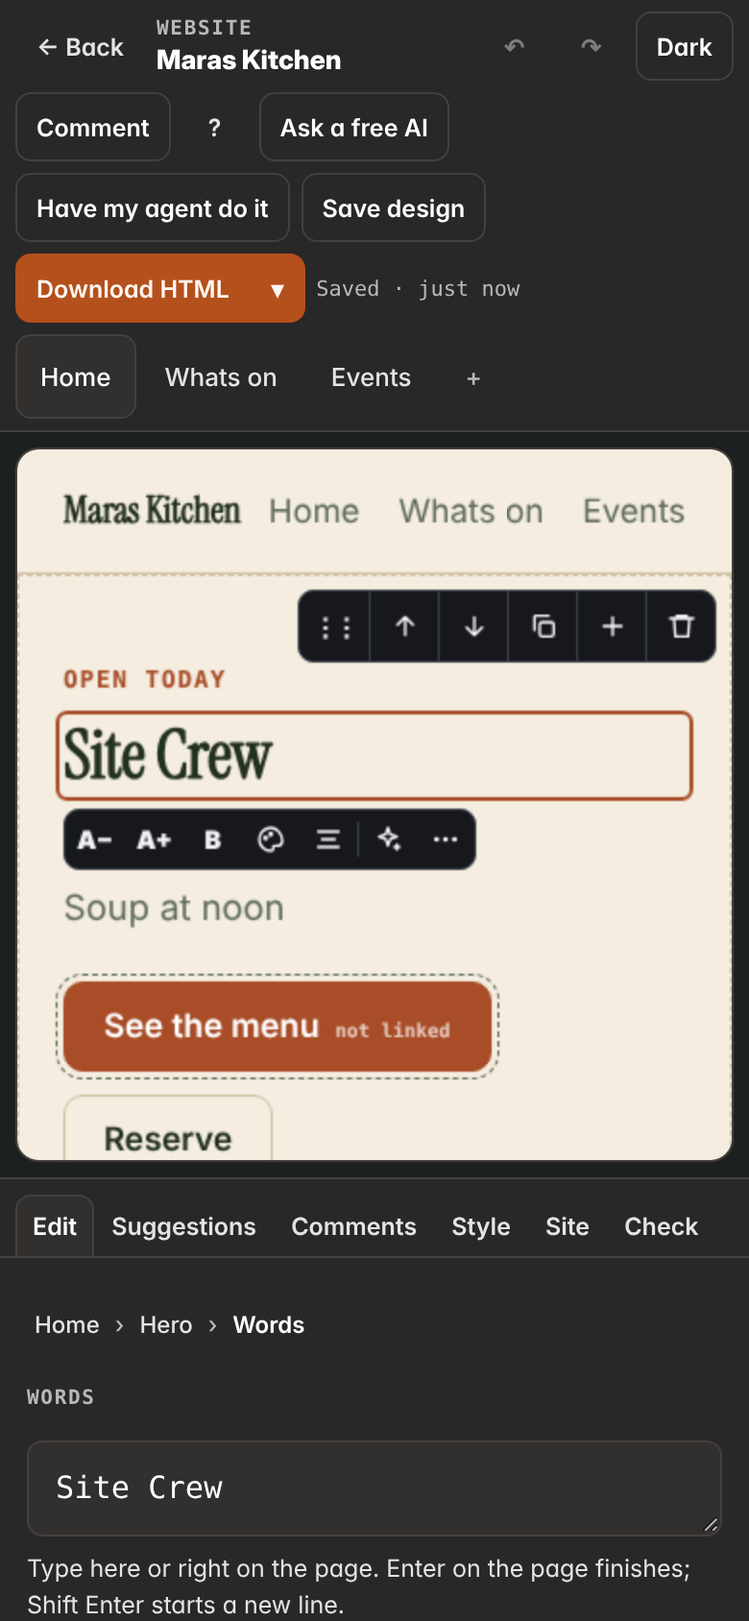
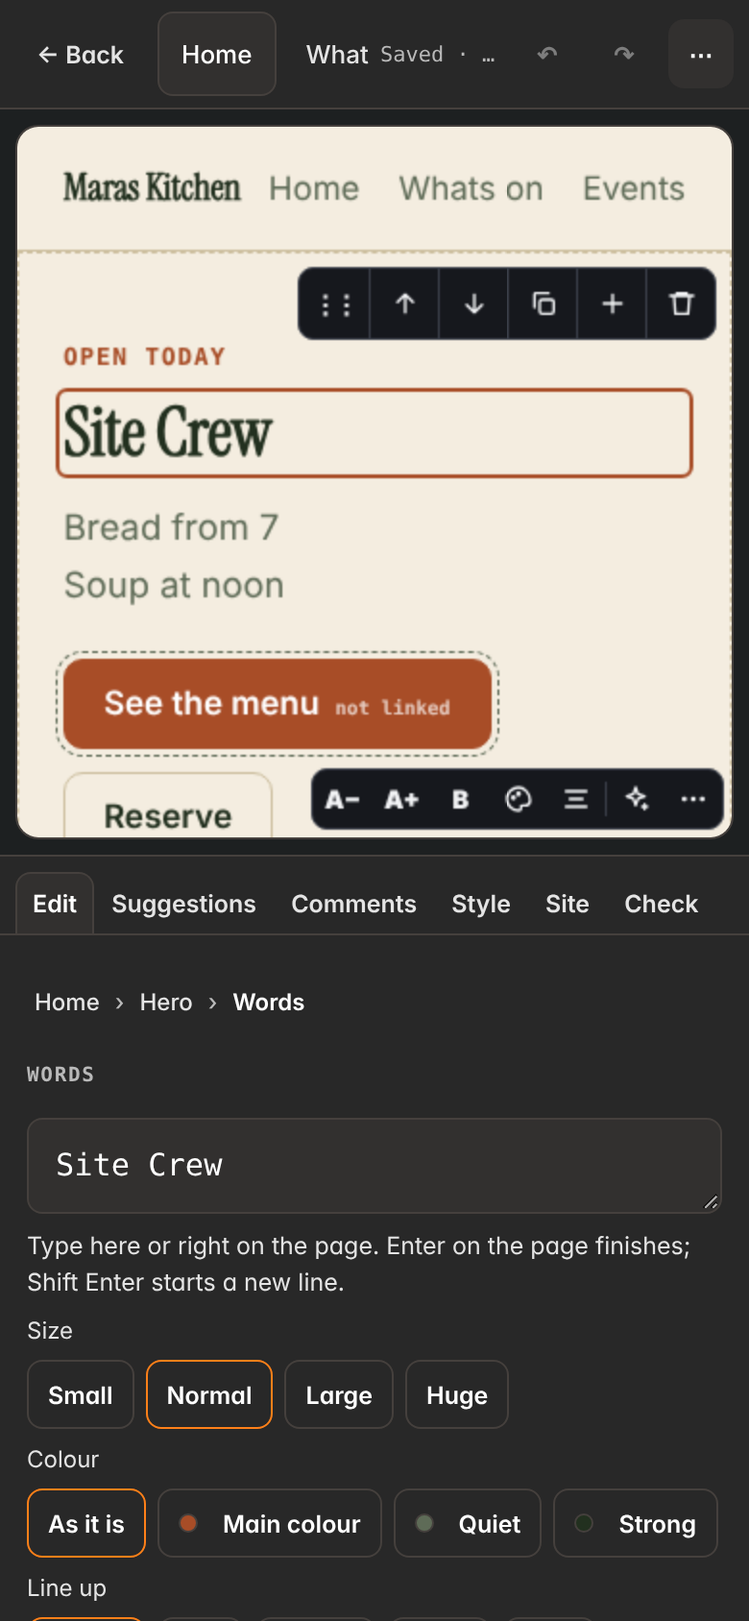
Website editor: toolbar never covers words, one-row phone bar with More, drag an entry with a drop line
Claude-Session: https://claude.ai/code/session_01Q3y5f5AEdzfgkZgsBdK9Ys

diff --git a/app/ui/sitedesigner-frame.js b/app/ui/sitedesigner-frame.js
@@ -16,7 +16,7 @@
   var q = function (s) { return document.querySelector(s); };
   var esc = function (s) { return window.CSS && CSS.escape ? CSS.escape(s) : String(s).replace(/["\\]/g, '\\$&'); };
   var L = { smaller: 'Smaller', bigger: 'Bigger', bold: 'Bold', color: 'Colour', align: 'Align', link: 'Where it goes', up: 'Move up', down: 'Move down', dup: 'Duplicate', add: 'Add another', del: 'Remove', flint: 'Ask Flint about this', more: 'More', replace: 'Replace the picture', fit: 'Fill or fit', swap: 'Swap the icon', words: 'Edit the words',
-    grip: 'Drag to move this section', sadd: 'Add a section below' };
+    grip: 'Drag to move this section', sadd: 'Add a section below', igrip: 'Drag to move it' };
   var I = function (d) { return '<svg viewBox="0 0 24 24" width="16" height="16" fill="none" stroke="currentColor" stroke-width="2" stroke-linecap="round" stroke-linejoin="round" aria-hidden="true">' + d + '</svg>'; };
   var IC = { up: I('<path d="M12 19V5M6 11l6-6 6 6"/>'), down: I('<path d="M12 5v14M6 13l6 6 6-6"/>'), dup: I('<rect x="9" y="9" width="11" height="11" rx="2"/><path d="M5 15V5a1 1 0 0 1 1-1h10"/>'), add: I('<path d="M12 5v14M5 12h14"/>'),
     del: I('<path d="M3 6h18M8 6V4h8v2M6 6l1 14h10l1-14"/>'), link: I('<path d="M10 14a4 4 0 0 0 5.7 0l3-3a4 4 0 0 0-5.7-5.7l-1 1"/><path d="M14 10a4 4 0 0 0-5.7 0l-3 3a4 4 0 0 0 5.7 5.7l1-1"/>'),
@@ -82,7 +82,7 @@
     if (s.kind === 'image') h += B('replace') + (site ? '' : B('fit'));
     if (s.kind === 'icon') h += B('swap');
     if (s.kind === 'field') h += B('words');
-    if (s.kind === 'item' || inList(s)) h += '<i></i>' + B('up') + B('down') + B('dup') + (s.kind === 'item' ? B('add') : '') + B('del');
+    if (s.kind === 'item' || inList(s)) h += '<i></i>' + '<button type="button" data-a="igrip" title="' + L.igrip + '" aria-label="' + L.igrip + '">\u22EE\u22EE</button>' + B('up') + B('down') + B('dup') + (s.kind === 'item' ? B('add') : '') + B('del');
     if (!site) h += '<i></i>' + B('flint');
     return h + B('more');
   }
@@ -91,10 +91,21 @@
     if (tb.dataset.for !== SEL.kind + SEL.key) { tb.innerHTML = tbHtml(SEL); tb.dataset.for = SEL.kind + SEL.key; }
     if (tb.parentNode !== document.body) document.body.appendChild(tb);
     var r = selEl.getBoundingClientRect(), w = tb.offsetWidth, h = tb.offsetHeight, dw = document.documentElement.clientWidth;
-    var top = r.top + scrollY - h - 8; if (r.top - h - 8 < 0 && r.bottom + h + 8 < innerHeight) top = r.bottom + scrollY + 8; if (top < 4) top = 4;
-    var left = Math.max(4, Math.min(r.left + scrollX, dw - w - 4));
-    if (bar.parentNode) { var br = bar.getBoundingClientRect(), ty = top - scrollY, lx = left - scrollX; if (ty < br.bottom + 2 && ty + h > br.top - 2 && lx < br.right + 2 && lx + w > br.left - 2) top = r.bottom + scrollY + 8; }   // never on top of the section's own bar
-    tb.style.top = Math.round(top) + 'px'; tb.style.left = Math.round(left) + 'px';
+    var left = Math.max(4, Math.min(r.left, dw - w - 4));
+    // feat/site-editor2 round 2: it never sits on words, a picture or the section's bar. Places tried in order: above,
+    // below, above at the right edge, below at the right edge; if all are taken it docks at the top of the screen.
+    var others = [].filter.call(document.querySelectorAll('[data-e],[data-btn],[data-img],[data-icon],[data-ph],.wdz-bar'), function (e) { return e !== selEl && !e.contains(selEl) && !selEl.contains(e); }).map(function (e) { return e.getBoundingClientRect(); }).filter(function (b) { return b.width > 0 && b.height > 0 && b.bottom > 0 && b.top < innerHeight; });
+    var free = function (x, y) { if (y < 2 || y + h > innerHeight - 2) return false; for (var i = 0; i < others.length; i++) { var b = others[i]; if (x < b.right + 2 && x + w > b.left - 2 && y < b.bottom + 2 && y + h > b.top - 2) return false; } return true; };
+    others.push(r);   // nor on the thing itself
+    var rx = Math.max(4, Math.min(r.right - w, dw - w - 4)), tries = [[left, r.top - h - 8], [left, r.bottom + 8], [rx, r.top - h - 8], [rx, r.bottom + 8]], at = null;
+    for (var t = 0; t < tries.length && !at; t++) if (free(tries[t][0], tries[t][1])) at = tries[t];
+    tb.classList.toggle('is-docked', !at);
+    if (!at) {   // docked: the free spot on screen nearest to the thing, so it is clear of every word
+      var xs = [left, rx, Math.max(4, (dw - w) / 2), 4, dw - w - 4], best = null, cy = (r.top + r.bottom) / 2;
+      for (var y = 4; y + h <= innerHeight - 2; y += 10) for (var k = 0; k < xs.length; k++) if (free(xs[k], y)) { var dist = Math.abs(y + h / 2 - cy) + Math.abs(xs[k] - left) / 4; if (!best || dist < best[2]) best = [xs[k], y, dist]; }
+      at = best || [Math.max(4, (dw - w) / 2), Math.max(4, innerHeight - h - 6)];
+    }
+    tb.style.top = Math.round(at[1] + scrollY) + 'px'; tb.style.left = Math.round(at[0] + scrollX) + 'px';
   }
   function select(s) {
     if (selEl) selEl.classList.remove('wdz-sel');
@@ -118,9 +129,39 @@
   if (window.ResizeObserver) new ResizeObserver(placeTb).observe(document.documentElement);
   document.addEventListener('load', placeTb, true);   // a picture arriving moves what is under it
   tb.addEventListener('mousedown', function (e) { e.preventDefault(); });   // keep the caret where it is
+  // ---- drag an entry of a list (round 2): hold its grip, a line shows where it lands among its own kind ----
+  var idrag = null, iline = null;
+  function entryKey(s) { var k = String(s.key), b = k.slice(0, k.indexOf('|')), ls = lists(k.slice(k.indexOf('|') + 1)); return ls.length ? b + '|' + ls[ls.length - 1] : ''; }
+  function siblings(key) { var pre = key.replace(/\.\d+$/, '.'); return [].filter.call(document.querySelectorAll('[data-item]'), function (e) { var k = e.dataset.item; return k.indexOf(pre) === 0 && /^\d+$/.test(k.slice(pre.length)); }).sort(function (a, b) { return +a.dataset.item.slice(pre.length) - +b.dataset.item.slice(pre.length); }); }
+  function igap(x, y) {   // where the pointer would drop it: the entry under (or nearest to) the pointer, before or after by its middle
+    var el = idrag.sibs, best = 0, bd = Infinity, i, r;
+    for (i = 0; i < el.length; i++) { r = el[i].getBoundingClientRect(); var dx = Math.max(r.left - x, 0, x - r.right), dy = Math.max(r.top - y, 0, y - r.bottom), d = dx * dx + dy * dy; if (d < bd) { bd = d; best = i; } }
+    r = el[best].getBoundingClientRect(); var row = idrag.row, after = row ? x > r.left + r.width / 2 : y > r.top + r.height / 2;
+    return { i: best + (after ? 1 : 0), r: r, after: after };
+  }
+  function ilineAt(g) {
+    if (!iline) { iline = document.createElement('div'); iline.className = 'wdz-idrop'; document.body.appendChild(iline); }
+    var r = g.r, st = iline.style;
+    if (idrag.row) { st.width = '3px'; st.height = Math.round(r.height) + 'px'; st.top = Math.round(r.top + scrollY) + 'px'; st.left = Math.round((g.after ? r.right + 3 : r.left - 6) + scrollX) + 'px'; }
+    else { st.height = '3px'; st.width = Math.round(r.width) + 'px'; st.left = Math.round(r.left + scrollX) + 'px'; st.top = Math.round((g.after ? r.bottom + 3 : r.top - 6) + scrollY) + 'px'; }
+  }
+  function iend(ok) {
+    if (!idrag) return; var d = idrag; idrag = null; d.el.classList.remove('wdz-moving'); document.documentElement.classList.remove('wdz-dragging'); if (iline) { iline.remove(); iline = null; }
+    if (!ok || d.gap < 0) return; var to = d.gap > d.from ? d.gap - 1 : d.gap; if (to !== d.from) post({ t: 'imove', key: d.key, from: d.from, to: to });
+  }
+  tb.addEventListener('pointerdown', function (e) {
+    var g = e.target.closest('[data-a="igrip"]'); if (!g || !SEL) return; var key = SEL.kind === 'item' ? SEL.key : entryKey(SEL); if (!key) return;
+    var sibs = siblings(key), el = q('[data-item="' + esc(key) + '"]'), from = sibs.indexOf(el); if (from < 0 || sibs.length < 2) return;
+    e.preventDefault(); var a = sibs[0].getBoundingClientRect(), b = sibs[1].getBoundingClientRect();
+    idrag = { key: key, el: el, sibs: sibs, from: from, gap: -1, row: Math.abs(a.top - b.top) < Math.min(a.height, b.height) / 2 };
+    el.classList.add('wdz-moving'); document.documentElement.classList.add('wdz-dragging'); try { g.setPointerCapture(e.pointerId); } catch (x) {}
+  });
+  tb.addEventListener('pointermove', function (e) { if (!idrag) return; var g = igap(e.clientX, e.clientY); idrag.gap = g.i; ilineAt(g); if (e.clientY < 60) scrollBy(0, -18); else if (e.clientY > innerHeight - 60) scrollBy(0, 18); });
+  tb.addEventListener('pointerup', function () { iend(true); }); tb.addEventListener('pointercancel', function () { iend(false); });
+  document.addEventListener('keydown', function (e) { if (e.key === 'Escape' && idrag) { e.stopPropagation(); iend(false); } }, true);
   tb.addEventListener('click', function (e) {
     var b = e.target.closest('[data-a]'); if (!b || !SEL) return; e.preventDefault(); e.stopPropagation();
-    var a = b.dataset.a;
+    var a = b.dataset.a; if (a === 'igrip') return;
     if (a === 'words') { if (SEL.kind === 'field') return post({ t: 'tb', act: 'words', key: SEL.key, kind: SEL.kind }); return typeIn(selEl.matches('[data-e]') ? selEl : selEl.querySelector('[data-e]'), true); }
     if (a === 'more') { var r = b.getBoundingClientRect(); return post({ t: 'menu', x: r.left, y: r.bottom + 4, key: SEL.key, kind: SEL.kind }); }
     var ed = editing(); if (ed) ed.blur();
@@ -170,7 +211,7 @@
   });
   document.addEventListener('keydown', function (e) {
     var el = editing(), mod = e.ctrlKey || e.metaKey;
-    if (e.key === 'Escape') { if (drag) return; if (el) { e.preventDefault(); el.blur(); return; } return post({ t: 'esc' }); }
+    if (e.key === 'Escape') { if (drag || idrag) return; if (el) { e.preventDefault(); el.blur(); return; } return post({ t: 'esc' }); }
     if (el) { if (e.key === 'Enter' && !e.shiftKey) { e.preventDefault(); el.blur(); } return; }
     if (e.target.closest && e.target.closest('input,textarea,select')) return;
     if (mod && /^[zy]$/i.test(e.key)) { e.preventDefault(); return post({ t: (e.key.toLowerCase() === 'y' || e.shiftKey) ? 'redo' : 'undo' }); }
@@ -221,7 +262,7 @@
     if (d.type) { var te = find({ kind: 'text', key: d.type }); if (te) typeIn(te, true); }
     if (d.y != null) scrollTo(0, d.y);
   });
-  addEventListener('scroll', function () { post({ t: 'scroll', y: scrollY }); }, { passive: true });
+  addEventListener('scroll', function () { post({ t: 'scroll', y: scrollY }); if (tb.classList.contains('is-docked') || SEL) placeTb(); }, { passive: true });
   markItems();
   var w0 = wide(); post({ t: 'ready', sw: w0.sw, iw: w0.iw, wide: w0.wide });
 })();

diff --git a/app/ui/sitedesigner.js b/app/ui/sitedesigner.js
@@ -22,7 +22,7 @@
 [data-img]{cursor:pointer}.wdz-pin{position:absolute;z-index:5;width:24px;height:24px;margin:-12px 0 0 -12px;border-radius:50% 50% 50% 0;border:2px solid #fff;background:#F26B1D;color:#fff;font:700 11px/1 system-ui;cursor:pointer;padding:0}.wdz-pin.done{background:#6b7280}.wdz-cm [data-block]{cursor:crosshair}.wdz-cm [data-block]:hover{outline:2px dashed #F26B1D!important}[data-unwired]{outline:1px dashed var(--muted);outline-offset:3px}[data-unwired]::after{content:'not linked';font:600 10px/1 ui-monospace,monospace;margin-left:8px;opacity:.7}
 [data-e]:empty{display:inline-block;min-width:5em;min-height:1em}[data-e]:empty::before{content:attr(data-hint);opacity:.55;font-style:italic;font-weight:400}[data-item]:hover{outline:1px dashed var(--muted);outline-offset:3px}[data-sys]{cursor:help}[data-ph],[data-icon]{cursor:pointer}[data-icon]:hover,[data-ph]:hover,[data-img]:hover{outline:1px dashed var(--muted);outline-offset:2px}
 [data-e].wdz-sel,[data-btn].wdz-sel,[data-item].wdz-sel,[data-icon].wdz-sel,[data-ph].wdz-sel,[data-img].wdz-sel{outline-offset:2px!important}.tk[data-icon]{display:inline-grid}
-.wdz-tb{position:absolute;z-index:8;display:flex;align-items:center;background:#16181D;border:1px solid #3A3F4A;border-radius:8px;overflow:hidden;font:600 13px/1 system-ui,sans-serif;color:#F2F3F5;text-align:left;white-space:nowrap}.wdz-tb button{all:unset;box-sizing:border-box;min-width:30px;height:30px;display:grid;place-items:center;cursor:pointer;padding:0 6px;color:#F2F3F5}.wdz-tb button:hover,.wdz-tb button:focus-visible{background:#2A2F39}.wdz-tb i{width:1px;height:18px;background:#3A3F4A}.wdz-bar svg{display:block}
+.wdz-tb{position:absolute;z-index:8;display:flex;align-items:center;background:#16181D;border:1px solid #3A3F4A;border-radius:8px;overflow:hidden;font:600 13px/1 system-ui,sans-serif;color:#F2F3F5;text-align:left;white-space:nowrap}.wdz-tb button{all:unset;box-sizing:border-box;min-width:30px;height:30px;display:grid;place-items:center;cursor:pointer;padding:0 6px;color:#F2F3F5}.wdz-tb button:hover,.wdz-tb button:focus-visible{background:#2A2F39}.wdz-tb i{width:1px;height:18px;background:#3A3F4A}.wdz-tb [data-a=igrip]{cursor:grab;touch-action:none;letter-spacing:-2px}.wdz-idrop{position:absolute;z-index:9;background:#F26B1D;border-radius:2px;pointer-events:none}.wdz-bar svg{display:block}
 html[data-dev=phone] .ehide-phone,html[data-dev=tablet] .ehide-tablet,html[data-dev=desktop] .ehide-desktop{opacity:.35;outline:1px dashed var(--muted);outline-offset:-3px}
 [data-e]{white-space:pre-wrap}[data-e]:empty:not([data-hint])::before{content:'Add words'}
 .wdz-bar{position:absolute;top:8px;right:8px;z-index:6;display:flex;gap:0;background:#16181D;border:1px solid #3A3F4A;border-radius:8px;overflow:hidden;font:600 13px/1 system-ui,sans-serif;text-align:left}.wdz-bar button{all:unset;box-sizing:border-box;min-width:30px;height:30px;display:grid;place-items:center;color:#F2F3F5;cursor:pointer;padding:0 6px}.wdz-bar button+button{border-left:1px solid #3A3F4A}.wdz-bar button:hover,.wdz-bar button:focus-visible{background:#2A2F39}.wdz-bar [data-a=grip]{cursor:grab;touch-action:none;letter-spacing:-2px}.wdz-dragging,.wdz-dragging *{cursor:grabbing!important;user-select:none}.wdz-moving{opacity:.45}.wdz-drop{position:absolute;left:0;right:0;height:4px;background:var(--accent);z-index:7;pointer-events:none}.wdz-cm .wdz-bar{display:none}[data-icon]{cursor:pointer}[data-icon]:hover{outline:2px dashed var(--muted);outline-offset:2px}@media (max-width:480px){.wdz-bar button{min-width:36px;height:36px}}</style>`;
@@ -208,6 +208,7 @@ html[data-dev=phone] .ehide-phone,html[data-dev=tablet] .ehide-tablet,html[data-
         <span class="wdz-saved" id="wdz-saved" aria-live="polite"></span>
         <button type="button" class="btn ghost sm wdz-ic" data-wdz="undo" title="Undo (Ctrl Z)" aria-label="Undo">↶</button>
         <button type="button" class="btn ghost sm wdz-ic" data-wdz="redo" title="Redo (Ctrl Shift Z)" aria-label="Redo">↷</button>
+        <button type="button" class="btn ghost sm wdz-ic wdz-more" data-wdz="more" aria-expanded="false" aria-label="More" title="More">⋯</button>
         <button type="button" class="btn sm" data-wdz="mode" id="wdz-mode" aria-pressed="false">Dark</button>
         <label class="wdz-sel-wrap"><span class="sr">Theme</span><select id="wdz-theme" class="input sm" aria-label="Theme">${Object.entries(P).map(([k, p]) => `<option value="${k}">${esc(p.name)}</option>`).join('')}</select></label>
         <span class="wdz-devs" role="group" aria-label="Preview size"><button type="button" class="btn ghost sm" data-dev="desktop" aria-pressed="true">Desktop</button><button type="button" class="btn ghost sm" data-dev="tablet" aria-pressed="false">Tablet</button><button type="button" class="btn ghost sm" data-dev="phone" aria-pressed="false">Phone</button></span>
@@ -332,6 +333,13 @@ html[data-dev=phone] .ehide-phone,html[data-dev=tablet] .ehide-tablet,html[data-
     if (d.t === 'text') { liveText = d; clearTimeout(liveT); liveT = setTimeout(() => { if (liveText) { const l = liveText; commitText(l); } }, 900); return; }
     if (d.t === 'commit') return commitText(d);
     if (d.t === 'pin') return commentAt(d);
+    if (d.t === 'imove') {   // an entry dragged to a new place among its own kind
+      const k = String(d.key), bid = k.slice(0, k.indexOf('|')), item = k.slice(k.indexOf('|') + 1), list = item.replace(/\.\d+$/, ''); let c = st.cfg, i = +d.from; const to = +d.to;
+      for (let n = 0; n < 40 && i !== to; n++) { const r = S().itemOp(c, st.page, bid, list, i, to > i ? 'down' : 'up'); if (r.i < 0 || r.i === i) break; c = r.cfg; i = r.i; }
+      const own = st.sel && st.sel.block === bid ? String(st.sel.path || '') : '', rest = own.indexOf(item) === 0 ? own.slice(item.length) : null;
+      st.sel = rest != null && st.sel.kind !== 'item' ? { block: bid, path: `${list}.${i}${rest}`, kind: st.sel.kind } : { block: bid, path: `${list}.${i}`, kind: 'item' };
+      return commit(c);
+    }
     if (d.t === 'move') { commit(S().moveBlock(st.cfg, st.page, d.block, +d.to)); st.sel = { block: d.block, path: '', kind: 'block' }; return; }
     if (d.t === 'icon') return STU() && STU().iconPicker(stuApi, d.key);
     if (d.t === 'act') {
@@ -363,7 +371,7 @@ html[data-dev=phone] .ehide-phone,html[data-dev=tablet] .ehide-tablet,html[data-
   const SG = () => window.TribeSiteSuggest;
   const sgApi = () => ({ ...spApi, panelNow: () => st.panel, flush: () => flush(), close: () => close(), addComment: c => addComment(c) });
   const tr = t => (window.TribeI18n && window.TribeI18n.t ? window.TribeI18n.t(t, t) : t);
-  const frameLabels = () => ({ smaller: tr('Smaller'), bigger: tr('Bigger'), bold: tr('Bold'), color: tr('Colour'), align: tr('Align'), link: tr('Where it goes'), up: tr('Move up'), down: tr('Move down'), dup: tr('Duplicate'), add: tr('Add another'), del: tr('Remove'), flint: tr('Ask Flint about this'), more: tr('More'), replace: tr('Replace the picture'), fit: tr('Fill or fit'), swap: tr('Swap the icon'), words: tr('Edit the words'), grip: tr('Drag to move this section'), sadd: tr('Add a section below') });
+  const frameLabels = () => ({ smaller: tr('Smaller'), bigger: tr('Bigger'), bold: tr('Bold'), color: tr('Colour'), align: tr('Align'), link: tr('Where it goes'), up: tr('Move up'), down: tr('Move down'), dup: tr('Duplicate'), add: tr('Add another'), del: tr('Remove'), flint: tr('Ask Flint about this'), more: tr('More'), replace: tr('Replace the picture'), fit: tr('Fill or fit'), swap: tr('Swap the icon'), words: tr('Edit the words'), grip: tr('Drag to move this section'), sadd: tr('Add a section below'), igrip: tr('Drag to move it') });
   const spApi = { sel: () => st.sel, setSel: s => { st.sel = s; }, cfg: () => st.cfg, commit: (c, o) => commit(c, o), page: () => st.page, setPage: id => { st.page = id; st.sel = null; frameScroll = 0; }, pageNow: () => pageNow(), say: (t, h, a) => say(t, h, a), ask: t => ask(t), pid: () => st.pid, connected: () => connected(),
     paint: () => paint(), panel: p => { if (p) st.panel = p; panelPaint(); }, postSel: sc => postSel(sc), post: m => { const f = $('#wdz-frame'); if (f && f.contentWindow) f.contentWindow.postMessage(m, '*'); }, root: () => root, box: () => $('#wdz-insp'),
     pickFile: () => pickFile(), iconPicker: key => STU() && STU().iconPicker(stuApi, key), comment: () => commentMode(true), fillFlint: t => { if (fui) fui.fill(t); }, undo: () => undo(), canEdit: () => st.canEdit !== false, dev: () => st.dev, comments: () => st.comments, tr };
@@ -671,6 +679,8 @@ html[data-dev=phone] .ehide-phone,html[data-dev=tablet] .ehide-tablet,html[data-
     if (t.closest('[data-import]')) { const f = $('#wdz-import'); f.value = ''; f.click(); return; }
     if (!a) { if (!t.closest('.wdz-dl')) $('#wdz-dlmenu').hidden = true; return; }
     const k = a.dataset.wdz;
+    if (k === 'more') { const on = !root.querySelector('.wdz-top').classList.contains('is-more'); root.querySelector('.wdz-top').classList.toggle('is-more', on); a.setAttribute('aria-expanded', String(on)); return; }
+    if (k !== 'dlmenu') { const tp = root.querySelector('.wdz-top'); if (tp.classList.contains('is-more')) { tp.classList.remove('is-more'); const mb = tp.querySelector('[data-wdz="more"]'); if (mb) mb.setAttribute('aria-expanded', 'false'); } }
     if (k === 'close') return close();
     if (k === 'undo') return undo();
     if (k === 'redo') return redo();

diff --git a/app/ui/siteparts.css b/app/ui/siteparts.css
@@ -48,7 +48,19 @@
 .sg-said { display: grid; gap: 4px; }
 .sg-said-i { font-size: 12px; color: var(--muted); line-height: 1.45; margin: 0; border-left: 2px solid var(--border); padding-left: 8px; }
 .sg-said-i b { color: var(--text); font-weight: 600; }
+.wdz .wdz-more { display: none; }
 @media (max-width: 820px) {
   .sp-li-a button, .sp-crumbs button { min-height: 40px; min-width: 32px; }
-  .wdz .wdz-saved { display: inline; order: 9; font-size: 11px; }
+  /* one row: Back, the pages (they scroll sideways), saved, undo, redo, More. Everything else opens under More. */
+  .wdz .wdz-top { flex-wrap: nowrap; position: relative; min-width: 0; max-width: 100vw; overflow: hidden; }
+  .wdz .wdz-top.is-more { overflow: visible; }
+  .wdz .wdz-title, .wdz .wdz-sp { display: none; }
+  .wdz .wdz-pages { order: 0; width: auto; flex: 1 1 0; min-width: 0; max-width: none; scrollbar-width: none; }
+  .wdz .wdz-saved { display: inline; order: 0; font-size: 11px; white-space: nowrap; max-width: 64px; overflow: hidden; text-overflow: ellipsis; flex: 0 1 auto; }
+  .wdz .wdz-more { display: inline-flex; flex: 0 0 auto; }
+  .wdz .wdz-top > [data-wdz="close"], .wdz .wdz-top > [data-wdz="undo"], .wdz .wdz-top > [data-wdz="redo"] { flex: 0 0 auto; }
+  .wdz .wdz-top > .wdz-more ~ * { display: none; }
+  .wdz .wdz-top.is-more > .wdz-more ~ * { display: inline-flex; }
+  .wdz .wdz-top.is-more { flex-wrap: wrap; }
+  .wdz .wdz-top.is-more > .wdz-more ~ .wdz-sel-wrap, .wdz .wdz-top.is-more > .wdz-more ~ .wdz-devs, .wdz .wdz-top.is-more > .wdz-more ~ [data-wdz="templates"] { display: none; }
 }

diff --git a/app/test/e2e_site_editable.py b/app/test/e2e_site_editable.py
@@ -217,6 +217,11 @@ def walk(pw):
     return res
 
 
+# what the toolbar covers besides the thing it belongs to (must be nothing)
+CLEAR_JS = """(() => { const tb = document.querySelector('.wdz-tb'), sel = document.querySelector('.wdz-sel'); if (!tb || !sel) return ['no toolbar'];
+  const t = tb.getBoundingClientRect(); return [...document.querySelectorAll('[data-e],[data-btn],[data-img],[data-icon],.wdz-bar')].filter(e => e !== sel && !e.contains(sel) && !sel.contains(e)).filter(e => { const b = e.getBoundingClientRect(); return b.width > 0 && b.height > 0 && t.left < b.right && t.right > b.left && t.top < b.bottom && t.bottom > b.top; }).map(e => (e.dataset.e || e.dataset.btn || e.className).slice(0, 40)); })()"""
+
+
 def live(pw):
     """The real editor with a tribe: the things that used to be dead ends, and that nothing glitches while you work."""
     tmp = tempfile.mkdtemp(prefix="tribe-se2-", dir="/tmp")
@@ -246,6 +251,7 @@ def live(pw):
         pg.wait_for_function("(TribeSiteDesigner.state().sel || {}).kind === 'text'", timeout=4000)
         assert sel(pg)["path"] == "items.0.note", sel(pg)
         assert f.locator(".wdz-tb").is_visible() and f.locator(".wdz-sel").count() == 1, "one outline and one toolbar"
+        assert f.evaluate(CLEAR_JS) == [], "the toolbar never sits on words, a picture or the section's bar"
         assert pg.locator("#wdz-insp .sp-crumbs").is_visible() and pg.locator("#wdz-insp [data-etext]").input_value().startswith("Opens Friday")
         note.press("Control+a"); note.type("Opens Saturday at 9am")
         pg.wait_for_function("TribeSiteDesigner.cfg().pages[0].blocks[0].props.items[0].note === 'Opens Saturday at 9am'", timeout=4000)
@@ -277,6 +283,16 @@ def live(pw):
         f.locator("body").press("Control+z"); pg.wait_for_function(f"TribeSiteDesigner.cfg().pages[0].blocks[0].props.items[0].label === {json.dumps(first)}", timeout=4000)
         f.locator("body").press("Control+Shift+z"); pg.wait_for_function(f"TribeSiteDesigner.cfg().pages[0].blocks[0].props.items[1].label === {json.dumps(first)}", timeout=4000)
         f.locator("body").press("Control+z"); pg.wait_for_timeout(300)
+        # drag the entry by its grip: a line shows where it lands; it drops as the third link
+        f.locator("small[data-e]").first.click(); esc_to(pg, f, "item")
+        fb = pg.locator("#wdz-frame").bounding_box(); grip = f.locator(".wdz-tb [data-a=igrip]").bounding_box(); third = f.locator("a.lk").nth(2).bounding_box()
+        pg.mouse.move(grip["x"] + grip["width"] / 2, grip["y"] + grip["height"] / 2); pg.mouse.down()
+        pg.mouse.move(third["x"] + 40, third["y"] + third["height"] * 0.8, steps=6); pg.wait_for_timeout(120)
+        assert f.locator(".wdz-idrop").count() == 1 and f.locator(".wdz-idrop").bounding_box()["width"] > 100, "a clear line shows where it will land"
+        pg.mouse.up()
+        pg.wait_for_function(f"TribeSiteDesigner.cfg().pages[0].blocks[0].props.items[2].label === {json.dumps(first)}", timeout=4000)
+        assert sel(pg) == {"block": sel(pg)["block"], "path": "items.2", "kind": "item"} and f.locator(".wdz-idrop").count() == 0
+        pg.wait_for_timeout(300); f.locator("body").press("Control+z"); pg.wait_for_function(f"TribeSiteDesigner.cfg().pages[0].blocks[0].props.items[0].label === {json.dumps(first)}", timeout=4000); pg.wait_for_timeout(300)
         n0 = len(cfg(pg)["pages"][0]["blocks"][0]["props"]["items"])
         f.locator("small[data-e]").first.click(); esc_to(pg, f, "item")
         f.locator(".wdz-tb [data-a=dup]").click(); pg.wait_for_function(f"TribeSiteDesigner.cfg().pages[0].blocks[0].props.items.length === {n0 + 1}", timeout=4000)
@@ -392,6 +408,12 @@ def live(pw):
         box = mf.locator(".wdz-tb").bounding_box(); assert box and box["x"] >= 0 and box["x"] + box["width"] <= 391, box
         assert m.evaluate("document.documentElement.scrollWidth <= innerWidth + 1"), "no sideways scroll on a phone"
         assert m.locator("#wdz-saved").is_visible(), "the saved state shows on a phone too"
+        assert mf.evaluate(CLEAR_JS) == [], "on a phone too the toolbar is clear of the words"
+        bar = m.locator(".wdz-top").bounding_box(); assert bar["height"] <= 60, f"the phone's top bar is one row, not {bar['height']}px"
+        assert not m.locator("[data-wdz='dl-html']").first.is_visible()
+        shot(m, "site-editor2-words-390.png")
+        m.locator("[data-wdz='more']").tap(); m.wait_for_selector("#wdz-dl", state="visible"); shot(m, "site-editor2-more-390.png")
+        m.locator("[data-wdz='more']").tap(); m.wait_for_timeout(150); assert m.locator(".wdz-top").bounding_box()["height"] <= 60
         shot(m, "site-editor2-words-390.png")
         print("  ok  phone: tap words, the toolbar fits the screen, nothing scrolls sideways, the saved state is visible")
         b.close()
